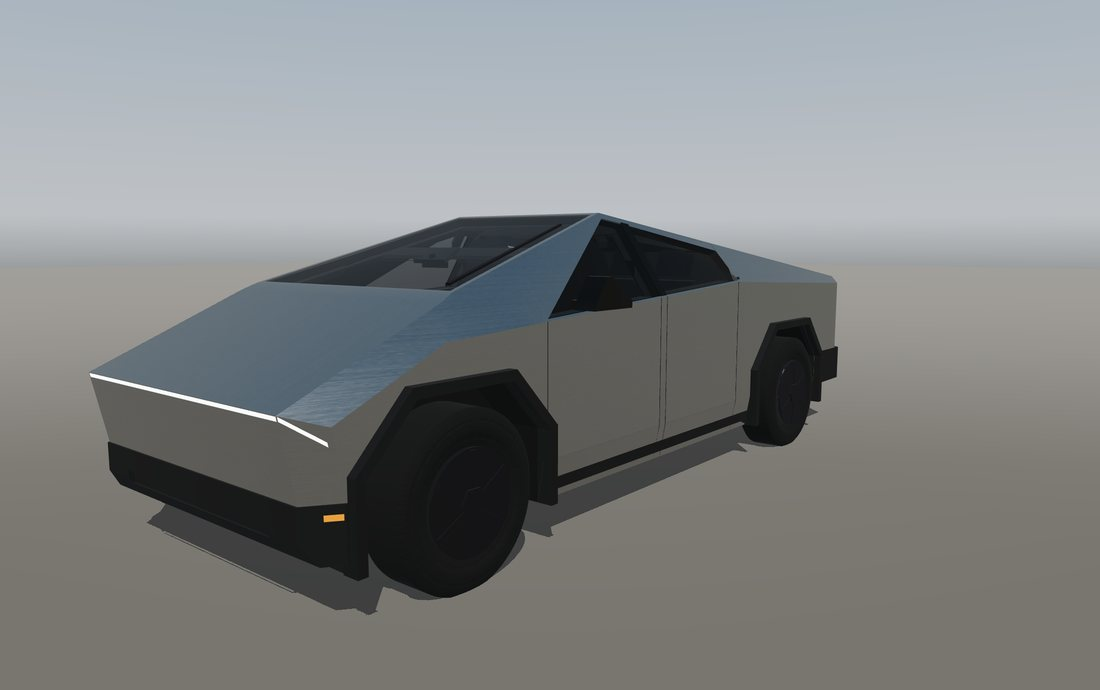
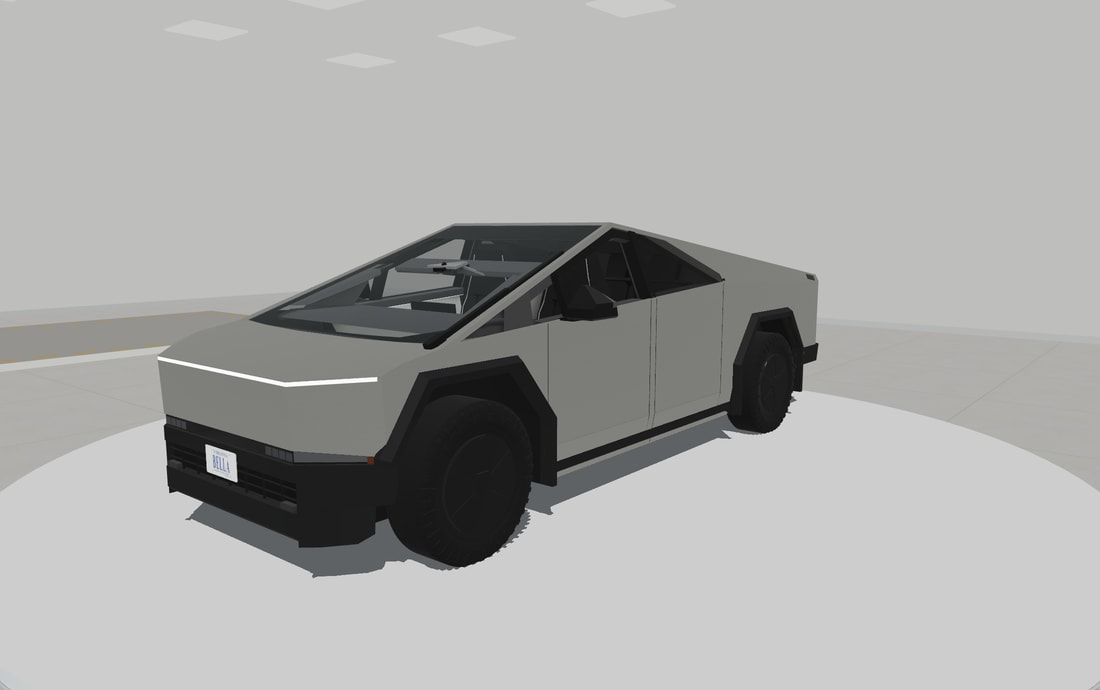
Refresh Cybertruck listing image from current model

diff --git a/apps/home/public/index.html b/apps/home/public/index.html
@@ -168,7 +168,7 @@
 
       <article class="featured">
         <div class="featured-media">
-          <img src="/assets/cards/cybertruck.jpg" alt="A stainless steel Cybertruck seen from the front corner, its light bar running the full width of the nose" loading="lazy" width="1100" height="690" />
+          <img src="/assets/cards/cybertruck.jpg?v=2" alt="The current stainless steel Cybertruck model seen from the front corner on its showroom turntable" loading="lazy" width="1100" height="690" />
         </div>
         <div class="featured-body">
           <p class="status"><span class="dot" aria-hidden="true"></span>Open now · How it's built</p>
